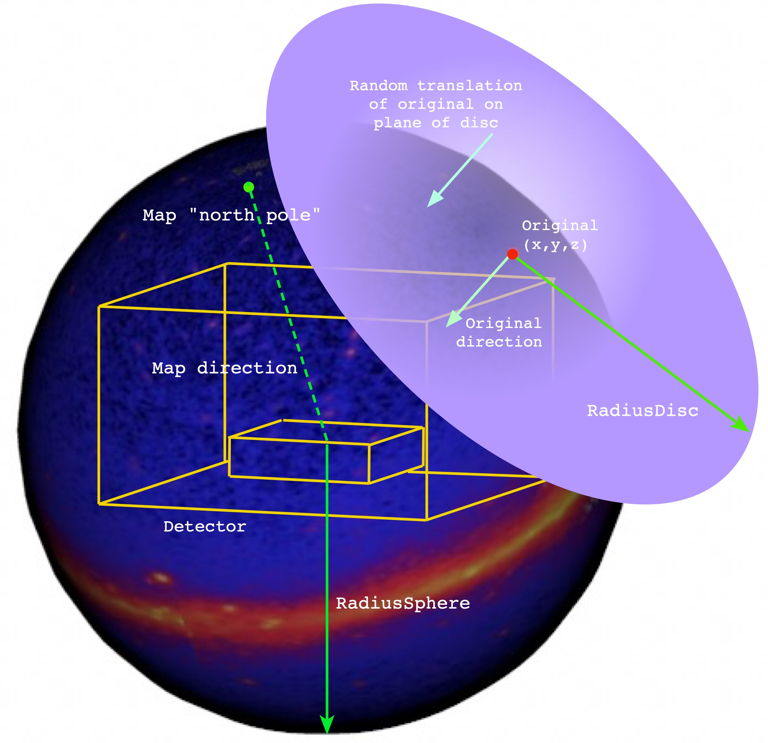
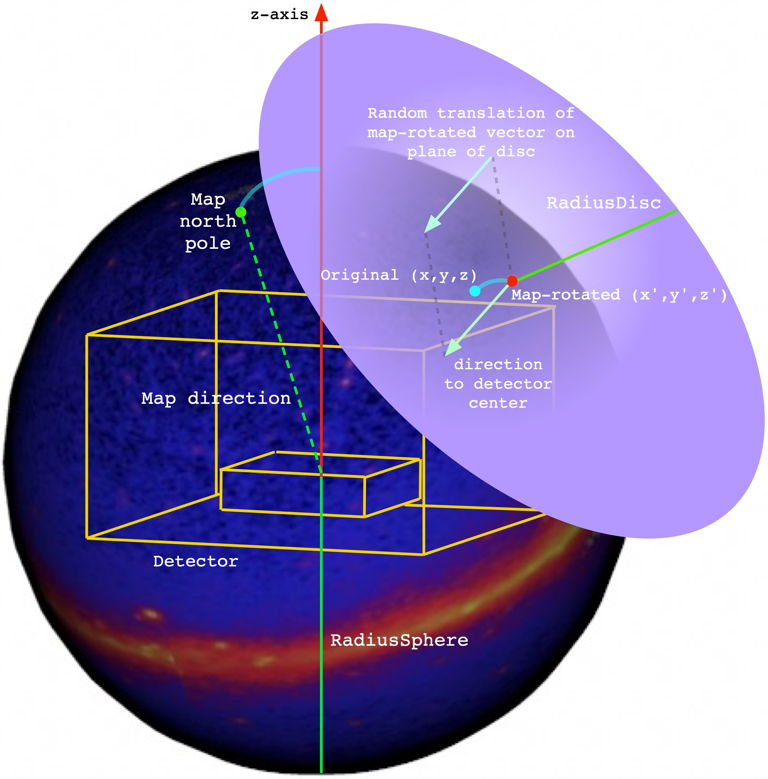
GramsSky documentation

diff --git a/GramsSky/README.md b/GramsSky/README.md
@@ -9,21 +9,95 @@ This is similar to the [General Particle Source][62] available in [Geant4][60]. 
 [60]: https://geant4.web.cern.ch/
 [62]: http://geant4-userdoc.web.cern.ch/geant4-userdoc/UsersGuides/ForApplicationDeveloper/html/GettingStarted/generalParticleSource.html
 
+The input and output units for the parameters described below are determined by parameters __`LengthUnit`__ and __`EnergyUnit`__. Normally these options are in the `<global>` section of the options XML file. 
+
 ## The geometry of GramsSky generation
 
-The program `gramssky` does not depend on a [GDML file](../grams.gdml) to supple a detector description. 
+![Sky Diagram](SkyDiagram.jpg)
 
-These are the steps taken to generate an event in GramsSky:
+These are the steps taken to generate an event in GramsSky. In the following description, names in __`this format`__ are parameters in the [options XML file](../options.xml). 
 
-   - The particle is generated at an (x,y,z) as determined by the position algorithm selected by the user; see the list of possible algorithms below. 
+   - The particle is generated at an original (x,y,z) as determined by the position algorithm selected by the user; see the list of possible algorithms below. Note that the particle's origin is on the surface of a sphere of radius __`RadiusSphere`__ and center __`OriginSphere`__ in the detector coordinate system.
+
+      - While nominally __`OriginSphere`__ would be the center of the detector, the definition of the "center" of the GRAMS detector may depend on the type of study being done: As of 11-Jan-2022, the origin of the z-axis is set to be the bottom of the anode plate (to be partially compatible with [LArSoft][15]). In this coordinate system and with the geometry in [`grams.gdml`](../grams.gdml) as of 11-Jan-2022, the center of the LArTPC is (0,0,-14.783); the center of the overall detector is at (0,0,45.217).
+   
+[15]: https://github.com/LArSoft
    
    - The particle's energy _E_ is generated according to the energy algorithm selected by the user; again, see below.
    
-   - The magnitude of the particle's momentum is calculated by $$p = \sqrt{E^2 - m^2}$$, where _m_ is the particle's mass from ROOT's [TParticlePDG][10] class based on its [PDG code][11]
+   - The magnitude of the particle's momentum is calculated by _p = sqrt(E^2 - m^2)_, where _m_ is the particle's mass from ROOT's [TParticlePDG][10] database based on the value of __`PrimaryPDG`__.
    
 [10]: https://root.cern.ch/doc/master/classTDatabasePDG.html
 [11]: https://pdg.lbl.gov/2007/reviews/montecarlorpp.pdf
 
-![Sky Diagram](SkyDiagram.jpg)
+   - __`MapDirection`__ is the direction of "north pole" of the map with respect to the z-axis of the detector coordinate system; this parameter is necessary because the sky maps are normally oriented with (&theta;,&phi;)=(90&deg;,0) at the galactic north pole, while a detector will have some other orientation with respect to the earth's surface. 
+   
+      __`MapDirection`__ is used to rotate the original (x,y,z) in the celestial sphere coordinate system to (x',y',z') in the detector coordinate system. 
+    
+   - The momentum direction is taken to be of magnitude _p_ and in the direction of the center of celestial sphere at __`OriginSphere`__. Call this (px,py,pz).
+   
+   - The direction of (x',y',z') is assumed to be located at a very large distance from the detector. Therefore, all particles from that source appear to be coming from that direction independent of the location within the detector. To simulate this effect, the source of the particles is taken to be a disc with radius __`RadiusDisc`__ that is tangent to the celestial sphere at (x',y',z').
+   
+      - In the XML file, if __`RadiusDisc`__ less than or equal to zero, the program will use the value of __`RadiusSphere`__. Note that, given the [grams.gdml](../grams.gdml) file as of 11-Jan-022, a radius of 267 _cm_ is sufficient to cover the entire GRAMS outer detector; a radius of 108 _cm_ will cover the LArTPC. (Make sure the value of __`OriginSphere`__ is consistent with the __`RadiusDisc`__ you choose.)
 
-It might look something like this. 
+   - The vector with origin (x',y',z') and vector (px,py,pz) is translated along the plane of the disc to a random (r,&theta;). These translated values are what's written as the particle's information in the `gramssky` output. 
+     
+      - Note that `gramssky` does _not_ check to make sure that the translated vertex is within the world volume defined by the [GDML](../grams.gdml) file. If a particle's vertex is outside the world volume, [`gramsg4`](../GramsG4) will not crash, but it will skip over the particle with a warning message. It's a good idea to verify that the celestial sphere and any potential tangent discs do not lie wholly or partially outside the world volume. One possible fix is to increase the size of the world volume in [the GDML file](../grams.gdml), at a cost of a modest increase in the execution time of `gramsg4`.
+
+## Position generators
+
+These are the available generators for (x,y,z) as 11-Jan-2022. They are selected by option __`PositionGeneration`__. 
+
+### Fixed point
+
+If __`PositionGeneration`__ has the value `Fixed`, then the user must supply the option __`PositionGeneration`__ with a vector of values (x,y,z). All the particles are generated with an initial vertex at that point, then undergo the geometric transformations described above. 
+
+   - The position (x,y,z) will be translated to the surface of the celestial sphere automatically. There's no need to do elaborate calculations to make sure (x,y,z) is exactly __`RadiusSphere`__ from __`OriginSphere`__; the program takes care of that. 
+
+### Isotropic on the inner surface of the celestial sphere
+
+This position generator is selected by setting __`PositionGeneration`__ to `Iso`. The controlling options are:
+
+   - __`ThetaMinMax`__: the value is a two-element vector with minimum and maximum &theta;.
+   - __`PhiMinMax`__: the value is a two-element vector with minimum and maximum &phi;.
+
+Setting __`ThetaMinMax`__ to `(0,1.571)` and __`PhiMinMax`__ to `(0,6.283)` will generate particle isotropically in a hemisphere above the detector (subject to the geometry transforms described above).
+
+## Energy generators
+
+These are the available generators for _E_ as 11-Jan-2022. They are selected by option __`EnergyGeneration`__. 
+
+### Fixed energy
+
+As the name implies, if __`EnergyGeneration`__ has the value `Fixed` then the value of _E_ comes from the option `FixedEnergy`.
+
+### Uniform energy distribution
+
+If __`EnergyGeneration`__ is `Flat`, then _E_ is generated uniformly between the values of parameters __`EnergyMin`__ and __`EnergyMax`__.
+
+### Gaussian energy distribution
+
+If __`EnergyGeneration`__ is `Gaus`, then _E_ is generated according to a Gaussian distribution with mean of __`GausMean`__ and width __`GausWidth`__. 
+
+   - Note that the limits in parameters __`EnergyMin`__ and __`EnergyMax`__ still apply to this generator. This is to keep the value of _E_ from going negative, which would cause problems in both `gramssky` and `gramsg4`.
+   
+### Black-body energy distribution
+
+For __`EnergyGeneration`__ = `BlackBody`, _E_ is generated according to a black-body distribution with radiation temperature (kT) given by parameter __`RadTemp`__. 
+
+   - Again, the limits in parameters __`EnergyMin`__ and __`EnergyMax`__ still apply to this generator.
+   
+### Power-law energy distribution
+
+If __`EnergyGeneration`__ is `PowerLaw`, then _E_ is generated according to a power-law distribution with a photon index given by __`PhotonIndex`__.
+
+   - The limits in parameters __`EnergyMin`__ and __`EnergyMax`__ still apply to this generator.
+   
+### Energy distribution from a histogram
+
+For __`EnergyGeneration`__ = "Hist", the program expects two parameters: __`HistFile`__ with the name of a ROOT file, and __`HistName`__ with the name of a histogram within that file. 
+
+   - Both __`HistFile`__ and __`HistName`__ can contain path specifiers for directories either on the computer system or within the ROOT file. 
+   
+   - For this generator, the values of __`EnergyMin`__ and __`EnergyMax`__ are ignored. Instead, the energy limits effectively come from the bin limits of the histogram. 
+   
